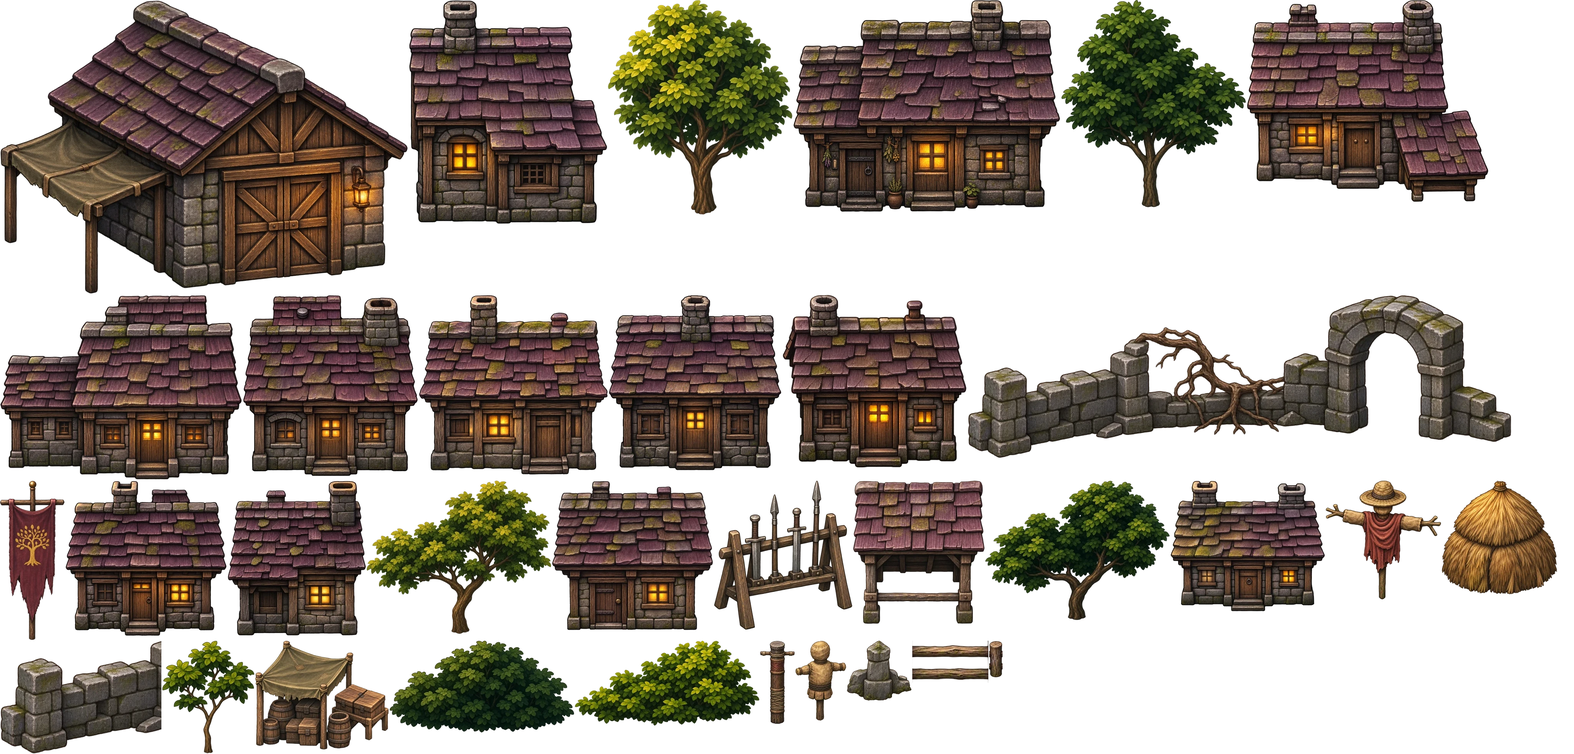
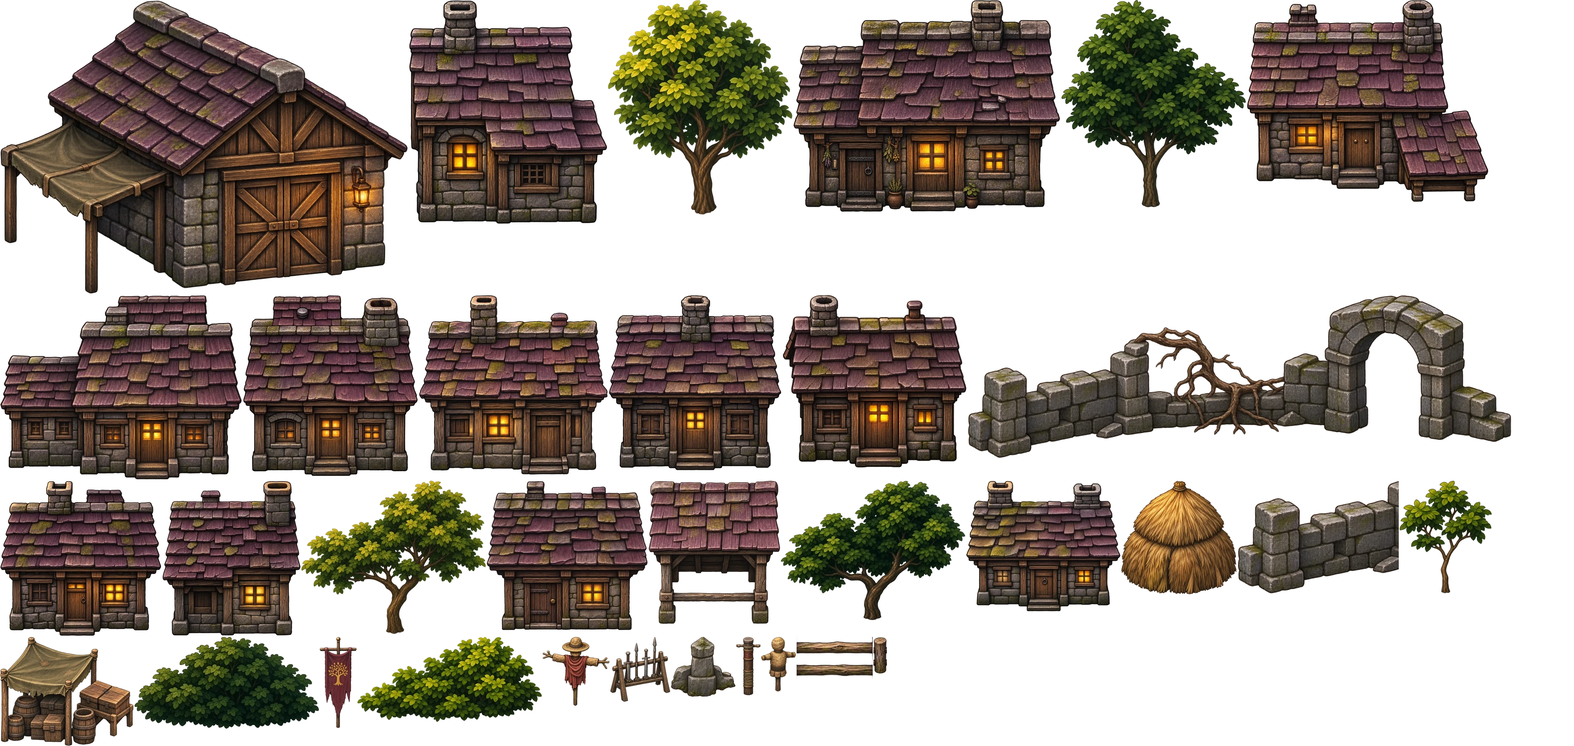
0.1.43: training ground pieces and scarecrow sized to the heroes
Claude-Session: https://claude.ai/code/session_01GdUtVyN9RJChkwtqMYVHJY

diff --git a/game.html b/game.html
@@ -588,7 +588,7 @@ setTimeout(stInit, 0);
 // ---- Report a bug / share an idea. Each report is posted to Mathis's Google Form (its answers fill a Google Sheet that Claude reads).
 // REPORT.form: the form's /formResponse address; REPORT.f: the entry ids of its questions. Empty = not wired yet: reports wait on the device.
 const REPORT = {form:'https://docs.google.com/forms/d/e/1FAIpQLScxkx9EH5JrIl3sv-kmJCeBhfmK7VFl6_9q2C7KEp91dp3fpg/formResponse', f:{kind:'entry.1266972860', text:'entry.559001655', contact:'entry.927686679', info:'entry.1743785591'}};
-const GAME_VER = '0.1.42';
+const GAME_VER = '0.1.43';
 const ERRLOG = [];
 window.addEventListener('error', e => { ERRLOG.push(String(e.message || e).slice(0, 160) + (e.filename ? ' @' + e.filename.split('/').pop() + ':' + e.lineno : '')); if(ERRLOG.length > 5) ERRLOG.shift(); });
 
@@ -1999,7 +1999,7 @@ function bodyTY(M, px, py){ const ty = Math.floor(py/TS); return py - ty*TS < LI
 // whether it fades when walked behind), ground (192 px chunks cut from 384 px picture tiles),
 // lamps, puddles, the anvil, the dome and where everyone stands.
 // Vaidya's house is the one north-west of the crossroads, Karmara's north-east (her anvil out front, no stall), Ganesh's inside the south-west loop.
-const TOWN2 = {"w":96,"h":64,"tiles":["xxxxxxxxxxxxxxxxxxxxxxxxxxxxxxxxxxxxxxxxxxxxxxxxxxxxxxxxxxxxxxxxxxxxxxxxxxxxxxxxxxxxxxxxxxxxxxxx","xxxxxxxxxxxxxxxxxxxxxxxxxxxxxxxxxxxxxxxxxxxxxxxxxxxxxxxxxxxxxxxxxxxxxxxxxxxxxxxxxxxxxxxxxxxxxxxx","xxxxxxxxxxxxxxxxxxxxxxxxxxxxxxxxxxxxxxxxxxxxxxxxxxxxxxxxxxxxxxxxxxxxxxxxxxxxxxxxxxxxxxxxxxxxxxxx","xxxxxxxxxxxxxxxxxxxxxxxwwwwwwxxxxxxxxggggggggggggggggggggggggggggggggggggggggggggggggggggggxxxxx","xxxxxxxxxxxxxxxxxxxxxxxwwwwwwxxxxxxxgggggggggggggggggggggggggggggggggggggggggggggggggggggggxxxxx","xxxxxxxxxxxxxxxxxxxxxxxwwwwwwxxxxxxggggggggggggggggggggggggggggggggggggggggggggggggggggggggxxxxx","xxxxxxxxxxxxxxxxxxxxxxxwwwwwxxxxxxgggggggggggggggggggggggggggggggggggggggggggggggggggggggggxxxxx","xxxxxxxxxxxxxxxxxxxxxxxwwwwwxxxxxggggggggggggggggggggggggggggggggggggggggggggggggggggggggggxxxxx","xxxxxxxxxxxxxxxxxxxxxxxwwwwwxxxxgggggggggggggggggggggggggggggggggggggggggggggggggggggggggggxxxxx","xxxxxxxxxxxxxxxxxxxxxxxwwwwwxxxggggggggggggggggggggggggggggggggggggggggggggggggggggggggggggxxxxx","xxxxxxxxxxxxxxxxxxxxxxxwwwwwxxxggggggggggggggggggggggggggggggggggggggggggggggggggggggggggggxxxxx","xxxxxxxxxxxxxxxxxxxxxxxwwwwwxxgggggggggggggggggggggggggggggggggggggggggggggggggggggggggggggxxxxx","xxxxxxxxxxxxxxxxxxxxxxxwwwwwwggggggggggggggggggggggggggggggggggggggggggggggggggggggggggggggxxxxx","xxxxxxxxxxxxxxxxxxxxxxxwwwwxwgwggggggggggggggggggggggggggggggggggggggggggggggggggggggggggggxxxxx","xxxxxxxxxxxxxxxxxxxxxxxwwwwwggwggggggggggggggggggggggggggggggggggggggggggggggggggggggggggggxxxxx","xxxxxxxxxxxxxxxxxxxxxxxwwwwwggwggggggggggggggggggggggggggggggggggggggggggggggggggggggggggggxxxxx","xxxxxxxxxxxxxxxxxxxxxwwwwwwgwwgggggggggggggggggggggggggggggggggggggggggggggggggggggggggggggxxxxx","xxxxxxxxxxxxxxxxxxxxxxwwwwwgwwgggggggggggggggggggggggggggggggggggggggggggggggggggggggggggggxxxxx","xxxxxxxxxxxxxxxxxxxxxwwwwwwgwwwggggggggggggggggggggggggggggggggggggggggggggggggggggggggggggxxxxx","xxxxxxxxxxxxxxxxxxxxxxwwwwgwwwgggggggggggggggggggggggggggggggggggggggggggggggggggggggggggggxxxxx","xxxxxxxxxxxxxxxxxxxxwwwwwwgwgggggggggggggggggggggggggggggggggggggggggggggggggggggggggggggggxxxxx","xxxxxxxxxxxxxxxxxxxxwwwwwwgwwggggggggggggggggggggggggggggggggggggggggggggggggggggggggggggggxxxxx","xxxxxxxxxxxxxxxxxxxwwwwwwwwwgggggggggggggggggggggggggggggggggggggggggggggggggggggggggggggggxxxxx","xxxxxxxxxxxxxxxxxxxwwwwwwgwwgggggggggggggggggggggggggggggggggggggggggggggggggggggggggggggggxxxxx","xxxxxxxxxxxxxxxxxxxwwwwwwgwwgggggggggggggggggggggggggggggggggggggggggggggggggggggggggggggggxxxxx","xxxxxxxxxxxxxxxxxxxxwwwwwgwggggggggggggggggggggggggggggggggggggggggggggggggggggggggggggggggxxxxx","xxxxxxxxxxxxxxxxxxxxwwwwwgwggggggggggggggggggggggggggggggggggggggggggggggggggggggggggggggggxxxxx","xxxxxxxxxxxxxxxxxxxxxxxxxbbbbbbbgggggggggggggggggggggggggggggggggggggggggggggggggggggggggggxxxxx","xxxxxxxxxxxxxxxxxxxxxxxxxbbbbbbbgggggggggggggggggggggggggggggggggggggggggggggggggggggggggggxxxxx","xxxxxxxxxxxxxxxxxxxxxxxxxbbbbbbbgggggggggggggggggggggggggggggggggggggggggggggggggggggggggggxxxxx","xxxxxxxxxxxxxxxxxxxxxxxxxbbbbbbbgggggggggggggggggggggggggggggggggggggggggggggggggggggggggggxxxxx","xxxxxxxxxxxxxxxxxxxxxxxxwwwwgggggggggggggggggggggggggggggggggggggggggggggggggggggggggggggggxxxxx","xxxxxxxxxxxxxxxxxxxxwxwxwwwwgggggggggggggggggggggggggggggggggggggggggggggggggggggggggggggggxxxxx","xxxxxxxxxxxxxxxxxxxwwwwwwgwwgggggggggggggggggggggggggggggggggggggggggggggggggggggggggggggggxxxxx","xxxxxxxxxxxxxxxxxxxwwwwwwgwwwggggggggggggggggggggggggggggggggggggggggggggggggggggggggggggggxxxxx","xxxxxxxxxxxxxxxxxxxwxwwwwgwwwggggggggggggggggggggggggggggggggggggggggggggggggggggggggggggggxxxxx","xxxxxxxxxxxxxxxxxxxwwwwwwwwwwggggggggggggggggggggggggggggggggggggggggggggggggggggggggggggggxxxxx","xxxxxxxxxxxxxxxxxxxxwwwwwwgwwggggggggggggggggggggggggggggggggggggggggggggggggggggggggggggggxxxxx","xxxxxxxxxxxxxxxxxxxxwwwwwwgwwwgggggggggggggggggggggggggggggggggggggggggggggggggggggggggggggxxxxx","xxxxxxxxxxxxxxxxxxxxwwwwwwgwwwgggggggggggggggggggggggggggggggggggggggggggggggggggggggggggggxxxxx","xxxxxxxxxxxxxxxxxxxxxwwwwwwwwwwggggggggggggggggggggggggggggggggggggggggggggggggggggggggggggxxxxx","xxxxxxxxxxxxxxxxxxxxxwwwwwwgwwgggggggggggggggggggggggggggggggggggggggggggggggggggggggggggggxxxxx","xxxxxxxxxxxxxxxxxxxxxxwwwwwgwgwggggggggggggggggggggggggggggggggggggggggggggggggggggggggggggxxxxx","xxxxxxxxxxxxxxxxxxxxxxwwwwwwgwwggggggggggggggggggggggggggggggggggggggggggggggggggggggggggggxxxxx","xxxxxxxxxxxxxxxxxxxxxxwwwwwwgwwggggggggggggggggggggggggggggggggggggggggggggggggggggggggggggxxxxx","xxxxxxxxxxxxxxxxxxxxxxwwwwwwwgwggggggggggggggggggggggggggggggggggggggggggggggggggggggggggggxxxxx","xxxxxxxxxxxxxxxxxxxxxxwxwwwwwgwggggggggggggggggggggggggggggggggggggggggggggggggggggggggggggxxxxx","xxxxxxxxxxxxxxxxxxxxxxwxwwwwxggggggggggggggggggggggggggggggggggggggggggggggggggggggggggggggxxxxx","xxxxxxxxxxxxxxxxxxxxxxxwwwwwxxgggggggggggggggggggggggggggggggggggggggggggggggggggggggggggggxxxxx","xxxxxxxxxxxxxxxxxxxxxxxwwwwwxxxggggggggggggggggggggggggggggggggggggggggggggggggggggggggggggxxxxx","xxxxxxxxxxxxxxxxxxxxxxwwwwwwxxxggggggggggggggggggggggggggggggggggggggggggggggggggggggggggggxxxxx","xxxxxxxxxxxxxxxxxxxxxxwwwwwxxxxxgggggggggggggggggggggggggggggggggggggggggggggggggggggggggggxxxxx","xxxxxxxxxxxxxxxxxxxxxxwwwwwxxxxxxggggggggggggggggggggggggggggggggggggggggggggggggggggggggggxxxxx","xxxxxxxxxxxxxxxxxxxxxxwwwwwwxxxxxxgggggggggggggggggggggggggggggggggggggggggggggggggggggggggxxxxx","xxxxxxxxxxxxxxxxxxxxxxwwwwwwxxxxxxxggggggggggggggggggggggggggggggggggggggggggggggggggggggggxxxxx","xxxxxxxxxxxxxxxxxxxxxwwwwwxxxxxxxxxxgggggggggggggggggggggggggggggggggggggggggggggggggggggggxxxxx","xxxxxxxxxxxxxxxxxxxxxwwwwwxxxxxxxxxxxggggggggggggggggggggggggggggggggggggggggggggggggggggggxxxxx","xxxxxxxxxxxxxxxxxxxxxxxxxxxxxxxxxxxxxxxxxxxxxxxxxxxxxxxxxxxxxxxxxxxxxxxxxxxxxxxxxxxxxxxxxxxxxxxx","xxxxxxxxxxxxxxxxxxxxxxxxxxxxxxxxxxxxxxxxxxxxxxxxxxxxxxxxxxxxxxxxxxxxxxxxxxxxxxxxxxxxxxxxxxxxxxxx","xxxxxxxxxxxxxxxxxxxxxxxxxxxxxxxxxxxxxxxxxxxxxxxxxxxxxxxxxxxxxxxxxxxxxxxxxxxxxxxxxxxxxxxxxxxxxxxx","xxxxxxxxxxxxxxxxxxxxxxxxxxxxxxxxxxxxxxxxxxxxxxxxxxxxxxxxxxxxxxxxxxxxxxxxxxxxxxxxxxxxxxxxxxxxxxxx","xxxxxxxxxxxxxxxxxxxxxxxxxxxxxxxxxxxxxxxxxxxxxxxxxxxxxxxxxxxxxxxxxxxxxxxxxxxxxxxxxxxxxxxxxxxxxxxx","xxxxxxxxxxxxxxxxxxxxxxxxxxxxxxxxxxxxxxxxxxxxxxxxxxxxxxxxxxxxxxxxxxxxxxxxxxxxxxxxxxxxxxxxxxxxxxxx","xxxxxxxxxxxxxxxxxxxxxxxxxxxxxxxxxxxxxxxxxxxxxxxxxxxxxxxxxxxxxxxxxxxxxxxxxxxxxxxxxxxxxxxxxxxxxxxx"],"solids":[[1146.0,826.0,21.0,6.0],[742.0,808.0,3.0,2.0],[1212.0,179.0,4.0,2.5],[1256.0,176.0,4.0,2.5],[1297.0,172.0,4.0,2.5],[1095.0,226.0,4.0,2.5],[1152.0,162.0,2.5,1.5],[1426.0,211.0,2.5,1.5],[912.0,533.0,10.0,4.0],[1172.0,557.0,8.0,3.5],[958.0,750.5,4.5,2.6],[951.2,748.7,4.5,2.6],[944.5,746.8,4.5,2.6],[937.7,745.0,4.5,2.6],[931.0,743.1,4.5,2.6],[925.0,741.5,4.5,2.6],[918.4,739.2,4.5,2.6],[911.8,736.9,4.5,2.6],[905.2,734.6,4.5,2.6],[898.6,732.3,4.5,2.6],[892.0,729.9,4.5,2.6],[885.4,727.6,4.5,2.6],[885.0,727.5,4.5,2.6],[878.0,726.7,4.5,2.6],[871.1,726.0,4.5,2.6],[864.1,725.2,4.5,2.6],[862.5,725.0,4.5,2.6],[855.5,724.2,4.5,2.6],[848.6,723.5,4.5,2.6],[841.6,722.7,4.5,2.6],[840.0,722.5,4.5,2.6],[833.1,721.5,4.5,2.6],[826.2,720.4,4.5,2.6],[819.2,719.4,4.5,2.6],[812.3,718.3,4.5,2.6],[805.4,717.3,4.5,2.6],[800.0,716.5,4.5,2.6],[793.1,715.5,4.5,2.6],[786.2,714.4,4.5,2.6],[779.2,713.4,4.5,2.6],[772.3,712.3,4.5,2.6],[765.4,711.3,4.5,2.6],[760.0,710.5,4.5,2.6],[753.0,709.9,4.5,2.6],[746.1,709.2,4.5,2.6],[739.1,708.6,4.5,2.6],[732.1,707.9,4.5,2.6],[725.2,707.3,4.5,2.6],[718.2,706.6,4.5,2.6],[717.0,706.5,4.5,2.6],[710.0,706.0,4.5,2.6],[703.0,705.4,4.5,2.6],[696.1,704.9,4.5,2.6],[691.0,704.5,4.5,2.6],[684.0,704.0,4.5,2.6],[677.0,703.4,4.5,2.6],[670.1,702.9,4.5,2.6],[665.0,702.5,4.5,2.6],[658.0,703.1,4.5,2.6],[651.1,703.8,4.5,2.6],[644.1,704.4,4.5,2.6],[637.1,705.1,4.5,2.6],[630.2,705.7,4.5,2.6],[623.2,706.4,4.5,2.6],[622.0,706.5,4.5,2.6],[615.8,709.8,4.5,2.6],[609.6,713.0,4.5,2.6],[603.4,716.3,4.5,2.6],[597.2,719.6,4.5,2.6],[591.0,722.8,4.5,2.6],[586.0,725.5,4.5,2.6],[583.9,732.2,4.5,2.6],[581.8,738.8,4.5,2.6],[579.7,745.5,4.5,2.6],[577.5,752.2,4.5,2.6],[575.4,758.9,4.5,2.6],[573.3,765.5,4.5,2.6],[573.0,766.5,4.5,2.6],[574.3,773.4,4.5,2.6],[575.5,780.3,4.5,2.6],[576.8,787.2,4.5,2.6],[578.0,794.0,4.5,2.6],[579.0,799.5,4.5,2.6],[584.1,804.3,4.5,2.6],[589.3,809.0,4.5,2.6],[594.4,813.8,4.5,2.6],[599.5,818.5,4.5,2.6],[604.7,823.3,4.5,2.6],[606.0,824.5,4.5,2.6],[612.0,828.1,4.5,2.6],[618.1,831.6,4.5,2.6],[624.1,835.2,4.5,2.6],[628.0,837.5,4.5,2.6],[634.0,841.1,4.5,2.6],[640.1,844.6,4.5,2.6],[646.1,848.2,4.5,2.6],[650.0,850.5,4.5,2.6],[656.6,852.8,4.5,2.6],[663.2,855.1,4.5,2.6],[669.8,857.4,4.5,2.6],[676.4,859.7,4.5,2.6],[683.0,862.1,4.5,2.6],[689.6,864.4,4.5,2.6],[690.0,864.5,4.5,2.6],[696.7,866.6,4.5,2.6],[703.4,868.7,4.5,2.6],[710.1,870.7,4.5,2.6],[712.5,871.5,4.5,2.6],[719.2,873.6,4.5,2.6],[725.9,875.7,4.5,2.6],[732.6,877.7,4.5,2.6],[735.0,878.5,4.5,2.6],[742.0,879.2,4.5,2.6],[748.9,879.9,4.5,2.6],[755.9,880.6,4.5,2.6],[762.9,881.3,4.5,2.6],[769.8,882.0,4.5,2.6],[775.0,882.5,4.5,2.6],[782.0,882.7,4.5,2.6],[789.0,882.8,4.5,2.6],[796.0,883.0,4.5,2.6],[797.5,883.0,4.5,2.6],[804.5,883.2,4.5,2.6],[811.5,883.3,4.5,2.6],[818.5,883.5,4.5,2.6],[820.0,883.5,4.5,2.6],[827.0,883.2,4.5,2.6],[834.0,882.9,4.5,2.6],[841.0,882.7,4.5,2.6],[845.0,882.5,4.5,2.6],[852.0,882.2,4.5,2.6],[859.0,881.9,4.5,2.6],[866.0,881.7,4.5,2.6],[870.0,881.5,4.5,2.6],[876.8,879.9,4.5,2.6],[883.6,878.2,4.5,2.6],[890.4,876.6,4.5,2.6],[895.0,875.5,4.5,2.6],[901.8,873.9,4.5,2.6],[908.6,872.2,4.5,2.6],[915.4,870.6,4.5,2.6],[920.0,869.5,4.5,2.6],[926.9,868.2,4.5,2.6],[933.8,866.9,4.5,2.6],[940.6,865.6,4.5,2.6],[947.5,864.3,4.5,2.6],[954.4,863.0,4.5,2.6],[961.3,861.6,4.5,2.6],[1000.0,859.5,4.5,2.6],[1006.9,858.5,4.5,2.6],[1013.9,857.6,4.5,2.6],[1020.8,856.6,4.5,2.6],[1025.0,856.0,4.5,2.6],[1031.9,855.0,4.5,2.6],[1038.9,854.1,4.5,2.6],[1045.8,853.1,4.5,2.6],[1050.0,852.5,4.5,2.6],[1056.9,851.5,4.5,2.6],[1063.9,850.6,4.5,2.6],[1070.8,849.6,4.5,2.6],[1075.0,849.0,4.5,2.6],[1081.9,848.0,4.5,2.6],[1088.9,847.1,4.5,2.6],[1095.8,846.1,4.5,2.6],[1100.0,845.5,4.5,2.6],[1106.9,844.3,4.5,2.6],[1113.8,843.0,4.5,2.6],[1120.7,841.8,4.5,2.6],[1125.0,841.0,4.5,2.6],[1131.9,839.8,4.5,2.6],[1138.8,838.5,4.5,2.6],[1145.7,837.3,4.5,2.6],[1150.0,836.5,4.5,2.6],[1156.8,834.8,4.5,2.6],[1163.6,833.1,4.5,2.6],[1170.4,831.4,4.5,2.6],[1177.2,829.7,4.5,2.6],[1182.0,828.5,4.5,2.6],[1182.4,821.5,4.5,2.6],[1182.7,814.5,4.5,2.6],[1183.1,807.5,4.5,2.6],[1183.5,800.5,4.5,2.6],[1183.8,793.5,4.5,2.6],[1352.0,170.5,4.5,2.6],[1359.0,169.8,4.5,2.6],[1365.9,169.2,4.5,2.6],[1372.9,168.5,4.5,2.6],[1379.9,167.8,4.5,2.6],[1386.8,167.2,4.5,2.6],[1393.8,166.5,4.5,2.6],[807.2,205.5,5.5,2.6],[628.2,193.5,5.5,2.6],[1387.8,535.5,5.5,2.6],[1280.2,571.5,5.5,2.6],[798.4,374.6,5.3,2.6],[1190.6,643.9,5.2,2.6],[1430.5,723.7,4.9,2.6],[490.9,372.3,4.9,2.6],[578.3,213.9,4.8,2.6],[891.6,616.3,4.8,2.6],[517.0,307.0,4.6,2.6],[544.0,724.0,4.6,2.6],[522.3,557.9,4.5,2.6],[1222.0,832.6,4.3,2.6],[1048.8,306.5,4.1,2.6],[781.9,121.2,4.1,2.6],[590.9,304.3,4.0,2.6],[758.4,207.5,3.9,2.6],[612.1,714.1,3.8,2.6],[1249.1,338.1,3.7,2.6],[1172.2,765.4,3.6,2.6],[485.7,595.6,3.5,2.6],[625.0,294.8,3.5,2.6],[1438.6,295.4,3.5,2.6],[1094.0,692.8,3.5,2.6],[830.0,307.4,3.5,2.6],[1284.7,613.4,3.5,2.6],[579.3,344.3,3.5,2.6],[871.3,274.1,3.5,2.6],[474.2,426.5,3.5,2.6],[551.6,264.9,3.5,2.6],[663.8,284.5,3.5,2.6],[776.7,564.1,3.5,2.6],[1229.8,643.5,3.5,2.6],[1451.0,669.4,3.5,2.6],[508.8,709.5,3.5,2.6],[1417.0,771.4,3.5,2.6],[1356.8,522.5,3.5,2.6],[527.0,365.8,3.5,2.6],[493.7,557.6,3.5,2.6],[611.0,227.1,3.5,2.6],[550.8,285.9,3.5,2.6],[1427.0,522.6,3.5,2.6],[765.7,615.7,3.5,2.6],[752.0,97.0,11.3,3.3],[656.9,372.9,10.9,3.2],[494.1,632.4,10.9,3.2],[1238.1,833.9,10.9,3.2],[1363.9,810.9,10.9,3.2],[1182.1,833.7,10.4,3.1],[1252.2,788.1,10.2,3.0],[1156.8,755.5,9.9,2.9],[1365.2,316.5,9.9,2.9],[1389.2,319.5,9.7,2.9],[1362.8,787.5,9.7,2.9],[903.8,364.5,9.7,2.9],[1241.2,531.9,9.7,2.9],[544.3,200.8,9.5,2.8],[944.2,306.3,9.2,2.7],[835.8,338.3,9.2,2.7],[878.2,343.3,9.2,2.7],[492.7,672.8,9.2,2.7],[1183.7,758.7,9.2,2.7],[1167.2,521.2,9.0,2.7],[924.7,348.1,8.5,2.5],[1074.7,286.0,8.3,2.5],[1199.7,725.0,8.3,2.5],[694.3,279.0,8.3,2.5],[713.3,135.9,8.1,2.5],[848.3,145.9,8.1,2.5],[1068.4,167.3,8.1,2.5],[878.3,511.9,8.1,2.5],[572.6,244.1,7.6,2.5],[1158.3,843.7,7.6,2.5]],"rects":[[775.8,403.2,104.4,34.8],[1043.8,348.5,68.4,29.5],[798.8,541.5,67.5,28.5],[923.0,188.1,54.0,24.9],[898.5,266.0,63.0,24.0],[861.4,307.3,60.3,20.7],[608.5,318.0,63.0,25.0],[504.1,408.7,73.8,29.3],[1164.0,401.9,72.0,28.1],[1360.3,389.1,77.4,36.9],[560.2,559.9,94.5,30.1],[1050.2,566.9,94.5,33.1],[973.9,769.0,159.3,44.0],[590.0,428.0,46.0,11.0],[630.0,618.0,46.0,20.0],[927.0,398.0,32.0,12.0],[1134.0,222.0,52.0,9.0],[1172.0,116.0,56.0,10.0],[1238.0,116.0,42.0,10.0],[1300.0,116.0,12.0,10.0],[1352.0,116.0,12.0,10.0],[1378.0,116.0,26.0,10.0],[646.0,222.0,64.0,9.0]],"houses":[{"x":48.125,"y":22.0,"w":7.25,"h":5.5,"name":"vaidya_house"},{"x":65.0,"y":18.625,"w":4.75,"h":5.125,"name":"karmara_house"},{"x":49.6875,"y":31.125,"w":4.6875,"h":4.625,"name":"ganesh_house"},{"x":57.5,"y":9.375,"w":3.75,"h":4.0625,"name":"house_a"},{"x":55.9375,"y":14.25,"w":4.375,"h":4.0,"name":"house_b"},{"x":53.625,"y":17.0,"w":4.1875,"h":3.625,"name":"house_c"},{"x":37.8125,"y":17.5,"w":4.375,"h":4.0625,"name":"house_d"},{"x":31.25,"y":22.625,"w":5.125,"h":4.875,"name":"house_e"},{"x":72.5,"y":22.0,"w":5.0,"h":5.0,"name":"house_f"},{"x":84.75,"y":20.5,"w":5.375,"h":6.25,"name":"house_g"},{"x":34.6875,"y":31.5625,"w":6.5625,"h":5.4375,"name":"house_h"},{"x":65.3125,"y":32.375,"w":6.5625,"h":5.25,"name":"house_i"}],"lamps":[[1030,215],[965,310],[680,365],[745,405],[520,458],[685,560],[1030,600],[1300,370],[1125,775]],"puddles":[[610,466,16,5],[730,470,11,4],[1082,466,14,5]],"anvil":[1132,428],"dome":[951,480,556],"rift":[995,92],"spots":{"start":[832,588],"entry":[990,500],"tp":[1030,520],"riftOut":[995,150],"stone":[948,548],"stash":[950,604],"karmara":[1140.8,422],"vaidya":[848,452],"ganesh":[806,590]},"place":[["vaidya_house",828.0,440,0,1],["karmara_house",1078.0,380,0,1],["ganesh_house",832.5,572,0,1],["house_a",950.0,215,0,1],["house_b",930.0,292,0,1],["house_c",891.5,330,0,1],["house_d",640.0,345,0,1],["house_e",541.0,440,0,1],["house_f",1200.0,432,0,1],["house_g",1399.0,428,0,1],["house_h",607.5,592,0,1],["house_i",1097.5,602,0,1],["barn",1053.5,815,0,1],["market_stall",612,441,0,1.0],["shed",653,640,0,1.0],["shed",943,412,1,0.667],["haystack",1146,833,0,1.0],["scarecrow",742,810,0,1.0],["training_dummy",1212,181,0,1.0],["training_dummy",1256,178,0,1.0],["training_dummy",1297,174,0,1.0],["weapon_rack",1160,233,0,1.0],["training_post",1095,228,0,1.0],["banner_pole",1152,163,0,1.0],["banner_pole",1426,212,1,1.0],["ruined_wall",1288,128,0,1],["ruin_small",678,233,0,1.0],["stone_statue",912,537,0,1.0],["stone_statue",1172,561,1,0.857],["frail",941.5,751.9,0,1,958,752,925.0,743.0],["frail",905.0,742.9,0,1,925.0,743.0,885.0,729.0],["frail",873.8,728.9,0,1,885.0,729.0,862.5,726.5],["frail",851.2,726.4,0,1,862.5,726.5,840.0,724.0],["frail",820.0,723.9,0,1,840.0,724.0,800.0,718.0],["frail",780.0,717.9,0,1,800.0,718.0,760.0,712.0],["frail",738.5,711.9,0,1,760.0,712.0,717.0,708.0],["frail",704.0,707.9,0,1,717.0,708.0,691.0,706.0],["frail",678.0,705.9,0,1,691.0,706.0,665.0,704.0],["frail",643.5,707.9,0,1,665.0,704.0,622.0,708.0],["frail",604.0,726.9,0,1,622.0,708.0,586.0,727.0],["frail",579.5,767.9,0,1,586.0,727.0,573.0,768.0],["frail",576.0,800.9,0,1,573.0,768.0,579.0,801.0],["frail",592.5,825.9,0,1,579.0,801.0,606.0,826.0],["frail",617.0,838.9,0,1,606.0,826.0,628.0,839.0],["frail",639.0,851.9,0,1,628.0,839.0,650.0,852.0],["frail",670.0,865.9,0,1,650.0,852.0,690.0,866.0],["frail",701.2,872.9,0,1,690.0,866.0,712.5,873.0],["frail",723.8,879.9,0,1,712.5,873.0,735.0,880.0],["frail",755.0,883.9,0,1,735.0,880.0,775.0,884.0],["frail",786.2,884.4,0,1,775.0,884.0,797.5,884.5],["frail",808.8,884.9,0,1,797.5,884.5,820.0,885.0],["frail",832.5,884.9,0,1,820.0,885.0,845.0,884.0],["frail",857.5,883.9,0,1,845.0,884.0,870.0,883.0],["frail",882.5,882.9,0,1,870.0,883.0,895.0,877.0],["frail",907.5,876.9,0,1,895.0,877.0,920.0,871.0],["frail",941.0,870.9,0,1,920.0,871.0,962.0,863.0],["fpost",958,752,0,1],["fpost",925.0,743.0,0,1],["fpost",885.0,729.0,0,1],["fpost",862.5,726.5,0,1],["fpost",840.0,724.0,0,1],["fpost",800.0,718.0,0,1],["fpost",760.0,712.0,0,1],["fpost",717.0,708.0,0,1],["fpost",691.0,706.0,0,1],["fpost",665.0,704.0,0,1],["fpost",622.0,708.0,0,1],["fpost",586.0,727.0,0,1],["fpost",573.0,768.0,0,1],["fpost",579.0,801.0,0,1],["fpost",606.0,826.0,0,1],["fpost",628.0,839.0,0,1],["fpost",650.0,852.0,0,1],["fpost",690.0,866.0,0,1],["fpost",712.5,873.0,0,1],["fpost",735.0,880.0,0,1],["fpost",775.0,884.0,0,1],["fpost",797.5,884.5,0,1],["fpost",820.0,885.0,0,1],["fpost",845.0,884.0,0,1],["fpost",870.0,883.0,0,1],["fpost",895.0,877.0,0,1],["fpost",920.0,871.0,0,1],["fpost",962.0,863.0,0,1],["frail",1012.5,860.9,0,1,1000,861,1025.0,857.5],["frail",1037.5,857.4,0,1,1025.0,857.5,1050.0,854.0],["frail",1062.5,853.9,0,1,1050.0,854.0,1075.0,850.5],["frail",1087.5,850.4,0,1,1075.0,850.5,1100.0,847.0],["frail",1112.5,846.9,0,1,1100.0,847.0,1125.0,842.5],["frail",1137.5,842.4,0,1,1125.0,842.5,1150.0,838.0],["frail",1166.0,837.9,0,1,1150.0,838.0,1182.0,830.0],["frail",1183.0,829.9,0,1,1182.0,830.0,1184.0,792.0],["fpost",1000,861,0,1],["fpost",1025.0,857.5,0,1],["fpost",1050.0,854.0,0,1],["fpost",1075.0,850.5,0,1],["fpost",1100.0,847.0,0,1],["fpost",1125.0,842.5,0,1],["fpost",1150.0,838.0,0,1],["fpost",1182.0,830.0,0,1],["fpost",1184.0,792.0,0,1],["frail",1373.0,171.9,0,1,1352,172,1394.0,168.0],["fpost",1352,172,0,1],["fpost",1394.0,168.0,0,1],["round_tree",807.2,207.0,1,0.975],["round_tree",628.2,195.0,1,0.975],["round_tree",1387.8,537.0,0,0.975],["round_tree",1280.2,573.0,1,0.975],["round_tree_3",798.4,376.1,1,0.942],["round_tree_4",1190.6,645.4,0,0.934],["round_tree_3",1430.5,725.2,0,0.876],["round_tree",490.9,373.8,0,0.869],["round_tree_2",578.3,215.4,1,0.853],["round_tree_3",891.6,617.8,1,0.853],["round_tree",517.0,308.5,1,0.812],["round_tree",544.0,725.5,1,0.812],["round_tree_3",522.3,559.4,0,0.796],["round_tree",1222.0,834.1,1,0.772],["round_tree_3",1048.8,308.0,1,0.738],["round_tree",781.9,122.7,1,0.731],["round_tree",590.9,305.8,1,0.715],["round_tree_4",758.4,209.0,0,0.698],["round_tree_3",612.1,715.6,0,0.682],["round_tree_3",1249.1,339.6,0,0.665],["round_tree",1172.2,766.9,0,0.649],["round_tree",485.7,597.1,1,0.601],["round_tree_3",625.0,296.3,1,0.592],["round_tree_4",1438.6,296.9,1,0.584],["round_tree_3",1094.0,694.3,0,0.576],["round_tree_3",830.0,308.9,1,0.569],["round_tree",1284.7,614.9,1,0.528],["round_tree",579.3,345.8,0,0.527],["round_tree_4",871.3,275.6,0,0.487],["round_tree_3",474.2,428.0,1,0.487],["round_tree",551.6,266.4,1,0.487],["round_tree_3",663.8,286.0,0,0.487],["round_tree_4",776.7,565.6,1,0.487],["round_tree_3",1229.8,645.0,0,0.487],["small_tree",1451.0,670.9,1,0.894],["round_tree_2",508.8,711.0,0,0.447],["small_tree",1417.0,772.9,1,0.894],["round_tree_2",1356.8,524.0,0,0.446],["small_tree",527.0,367.3,1,0.876],["round_tree_3",493.7,559.1,0,0.422],["small_tree",611.0,228.6,1,0.828],["round_tree_2",550.8,287.4,0,0.406],["small_tree",1427.0,524.1,1,0.812],["round_tree_3",765.7,617.2,0,0.406],["bush_2",752.0,101.0,1,0.416],["bush_2",656.9,376.7,1,0.399],["bush",494.1,636.2,1,0.399],["bush_2",1238.1,837.7,0,0.399],["bush_2",1363.9,814.7,1,0.399],["bush_2",1182.1,837.4,0,0.382],["bush",1252.2,791.7,1,0.373],["bush_2",1156.8,759.1,1,0.365],["bush_2",1365.2,320.1,0,0.365],["bush_2",1389.2,322.9,0,0.357],["bush_2",1362.8,790.9,1,0.357],["bush_2",903.8,367.9,1,0.357],["bush",1241.2,535.4,1,0.357],["bush",544.3,204.2,1,0.348],["bush_2",944.2,309.6,0,0.34],["bush_2",835.8,341.6,1,0.34],["bush_2",878.2,346.6,0,0.34],["bush",492.7,676.0,0,0.34],["bush",1183.7,762.0,0,0.34],["bush_2",1167.2,524.4,0,0.331],["bush_2",924.7,351.1,1,0.314],["bush_2",1074.7,288.9,1,0.306],["bush_2",1199.7,727.9,1,0.306],["bush_2",694.3,281.9,0,0.306],["bush_2",713.3,138.7,0,0.297],["bush_2",848.3,148.7,0,0.297],["bush",1068.4,170.1,1,0.297],["bush_2",878.3,514.7,0,0.297],["bush",572.6,246.8,0,0.28],["bush_2",1158.3,846.4,0,0.28],["lamp",1030,247.5,0,1],["lamp",965,342.5,0,1],["lamp",680,397.5,0,1],["lamp",745,437.5,0,1],["lamp",520,490.5,0,1],["lamp",685,592.5,0,1],["lamp",1030,632.5,0,1],["lamp",1300,402.5,0,1],["lamp",1125,807.5,0,1],["crate",655,432,0,1.1],["crate",670,429,0,1.0],["barrel",642,433,0,1.0],["barrel",1046,383,0,1.0],["crate",1072,410,0,1.1],["crate",1088,409,0,1.0],["barrel",1250,432,0,1.0],["crate",1262,434,0,1.0],["barrel",1384,431,0,1.0],["crate",1420,432,0,1.1],["barrel",1434,430,0,0.95],["barrel",898,434,0,1.0],["crate",913,438,0,1.0],["rubble",787,624,0,0.95],["sack1",572,596,0,1.0]],"spr":{"vaidya_house":[2064,0,696,552,348.0,551,1],"karmara_house":[632,768,456,473,228.0,472,1],"ganesh_house":[1584,768,450,458,225.0,457,1],"house_a":[592,1252,360,404,180.0,403,1],"house_b":[1436,1252,420,390,210.0,389,1],"house_c":[3046,1252,402,341,201.0,340,1],"house_d":[170,1252,420,405,210.0,404,1],"house_e":[1090,768,492,469,246.0,468,1],"house_f":[2036,768,480,451,240.0,450,1],"house_g":[1064,0,516,584,258.0,583,1],"house_h":[0,768,630,482,315.0,481,1],"house_i":[3244,0,630,527,315.0,526,1],"barn":[0,0,1062,766,531.0,765,1],"market_stall":[664,1669,348,284,174.0,283,1],"shed":[2220,1252,342,373,171.0,372,1],"haystack":[3752,1252,300,296,150.0,295,1],"scarecrow":[3450,1252,300,309,150.0,308,0],"training_dummy":[2070,1669,132,208,66.0,207,0],"weapon_rack":[1858,1252,360,389,180.0,388,0],"training_post":[1978,1669,90,217,45.0,216,0],"banner_pole":[0,1252,168,415,84.0,414,0],"ruined_wall":[2518,768,1416,426,708.0,425,1],"ruin_small":[0,1669,420,295,210.0,294,1],"stone_statue":[2204,1669,168,156,84.0,155,0],"fpost":[2574,1669,35,97,17.5,96,0],"frail":[2374,1669,198,110,99.0,109,0],"round_tree":[2762,0,480,540,232.5,539,1],"round_tree_2":[2564,1252,480,363,237.8,362,1],"round_tree_3":[1582,0,480,559,250.1,558,1],"round_tree_4":[954,1252,480,399,243.6,398,1],"small_tree":[422,1669,240,293,120.0,292,1],"bush":[1014,1669,480,239,252.9,238,0],"bush_2":[1496,1669,480,221,226.0,220,0]},"fence":{"k":0.0904,"top":12.84,"span":17.9},"ground":{"tile":192,"n":[8,6],"file":384,"fn":[4,3]}};
+const TOWN2 = {"w":96,"h":64,"tiles":["xxxxxxxxxxxxxxxxxxxxxxxxxxxxxxxxxxxxxxxxxxxxxxxxxxxxxxxxxxxxxxxxxxxxxxxxxxxxxxxxxxxxxxxxxxxxxxxx","xxxxxxxxxxxxxxxxxxxxxxxxxxxxxxxxxxxxxxxxxxxxxxxxxxxxxxxxxxxxxxxxxxxxxxxxxxxxxxxxxxxxxxxxxxxxxxxx","xxxxxxxxxxxxxxxxxxxxxxxxxxxxxxxxxxxxxxxxxxxxxxxxxxxxxxxxxxxxxxxxxxxxxxxxxxxxxxxxxxxxxxxxxxxxxxxx","xxxxxxxxxxxxxxxxxxxxxxxwwwwwwxxxxxxxxggggggggggggggggggggggggggggggggggggggggggggggggggggggxxxxx","xxxxxxxxxxxxxxxxxxxxxxxwwwwwwxxxxxxxgggggggggggggggggggggggggggggggggggggggggggggggggggggggxxxxx","xxxxxxxxxxxxxxxxxxxxxxxwwwwwwxxxxxxggggggggggggggggggggggggggggggggggggggggggggggggggggggggxxxxx","xxxxxxxxxxxxxxxxxxxxxxxwwwwwxxxxxxgggggggggggggggggggggggggggggggggggggggggggggggggggggggggxxxxx","xxxxxxxxxxxxxxxxxxxxxxxwwwwwxxxxxggggggggggggggggggggggggggggggggggggggggggggggggggggggggggxxxxx","xxxxxxxxxxxxxxxxxxxxxxxwwwwwxxxxgggggggggggggggggggggggggggggggggggggggggggggggggggggggggggxxxxx","xxxxxxxxxxxxxxxxxxxxxxxwwwwwxxxggggggggggggggggggggggggggggggggggggggggggggggggggggggggggggxxxxx","xxxxxxxxxxxxxxxxxxxxxxxwwwwwxxxggggggggggggggggggggggggggggggggggggggggggggggggggggggggggggxxxxx","xxxxxxxxxxxxxxxxxxxxxxxwwwwwxxgggggggggggggggggggggggggggggggggggggggggggggggggggggggggggggxxxxx","xxxxxxxxxxxxxxxxxxxxxxxwwwwwwggggggggggggggggggggggggggggggggggggggggggggggggggggggggggggggxxxxx","xxxxxxxxxxxxxxxxxxxxxxxwwwwxwgwggggggggggggggggggggggggggggggggggggggggggggggggggggggggggggxxxxx","xxxxxxxxxxxxxxxxxxxxxxxwwwwwggwggggggggggggggggggggggggggggggggggggggggggggggggggggggggggggxxxxx","xxxxxxxxxxxxxxxxxxxxxxxwwwwwggwggggggggggggggggggggggggggggggggggggggggggggggggggggggggggggxxxxx","xxxxxxxxxxxxxxxxxxxxxwwwwwwgwwgggggggggggggggggggggggggggggggggggggggggggggggggggggggggggggxxxxx","xxxxxxxxxxxxxxxxxxxxxxwwwwwgwwgggggggggggggggggggggggggggggggggggggggggggggggggggggggggggggxxxxx","xxxxxxxxxxxxxxxxxxxxxwwwwwwgwwwggggggggggggggggggggggggggggggggggggggggggggggggggggggggggggxxxxx","xxxxxxxxxxxxxxxxxxxxxxwwwwgwwwgggggggggggggggggggggggggggggggggggggggggggggggggggggggggggggxxxxx","xxxxxxxxxxxxxxxxxxxxwwwwwwgwgggggggggggggggggggggggggggggggggggggggggggggggggggggggggggggggxxxxx","xxxxxxxxxxxxxxxxxxxxwwwwwwgwwggggggggggggggggggggggggggggggggggggggggggggggggggggggggggggggxxxxx","xxxxxxxxxxxxxxxxxxxwwwwwwwwwgggggggggggggggggggggggggggggggggggggggggggggggggggggggggggggggxxxxx","xxxxxxxxxxxxxxxxxxxwwwwwwgwwgggggggggggggggggggggggggggggggggggggggggggggggggggggggggggggggxxxxx","xxxxxxxxxxxxxxxxxxxwwwwwwgwwgggggggggggggggggggggggggggggggggggggggggggggggggggggggggggggggxxxxx","xxxxxxxxxxxxxxxxxxxxwwwwwgwggggggggggggggggggggggggggggggggggggggggggggggggggggggggggggggggxxxxx","xxxxxxxxxxxxxxxxxxxxwwwwwgwggggggggggggggggggggggggggggggggggggggggggggggggggggggggggggggggxxxxx","xxxxxxxxxxxxxxxxxxxxxxxxxbbbbbbbgggggggggggggggggggggggggggggggggggggggggggggggggggggggggggxxxxx","xxxxxxxxxxxxxxxxxxxxxxxxxbbbbbbbgggggggggggggggggggggggggggggggggggggggggggggggggggggggggggxxxxx","xxxxxxxxxxxxxxxxxxxxxxxxxbbbbbbbgggggggggggggggggggggggggggggggggggggggggggggggggggggggggggxxxxx","xxxxxxxxxxxxxxxxxxxxxxxxxbbbbbbbgggggggggggggggggggggggggggggggggggggggggggggggggggggggggggxxxxx","xxxxxxxxxxxxxxxxxxxxxxxxwwwwgggggggggggggggggggggggggggggggggggggggggggggggggggggggggggggggxxxxx","xxxxxxxxxxxxxxxxxxxxwxwxwwwwgggggggggggggggggggggggggggggggggggggggggggggggggggggggggggggggxxxxx","xxxxxxxxxxxxxxxxxxxwwwwwwgwwgggggggggggggggggggggggggggggggggggggggggggggggggggggggggggggggxxxxx","xxxxxxxxxxxxxxxxxxxwwwwwwgwwwggggggggggggggggggggggggggggggggggggggggggggggggggggggggggggggxxxxx","xxxxxxxxxxxxxxxxxxxwxwwwwgwwwggggggggggggggggggggggggggggggggggggggggggggggggggggggggggggggxxxxx","xxxxxxxxxxxxxxxxxxxwwwwwwwwwwggggggggggggggggggggggggggggggggggggggggggggggggggggggggggggggxxxxx","xxxxxxxxxxxxxxxxxxxxwwwwwwgwwggggggggggggggggggggggggggggggggggggggggggggggggggggggggggggggxxxxx","xxxxxxxxxxxxxxxxxxxxwwwwwwgwwwgggggggggggggggggggggggggggggggggggggggggggggggggggggggggggggxxxxx","xxxxxxxxxxxxxxxxxxxxwwwwwwgwwwgggggggggggggggggggggggggggggggggggggggggggggggggggggggggggggxxxxx","xxxxxxxxxxxxxxxxxxxxxwwwwwwwwwwggggggggggggggggggggggggggggggggggggggggggggggggggggggggggggxxxxx","xxxxxxxxxxxxxxxxxxxxxwwwwwwgwwgggggggggggggggggggggggggggggggggggggggggggggggggggggggggggggxxxxx","xxxxxxxxxxxxxxxxxxxxxxwwwwwgwgwggggggggggggggggggggggggggggggggggggggggggggggggggggggggggggxxxxx","xxxxxxxxxxxxxxxxxxxxxxwwwwwwgwwggggggggggggggggggggggggggggggggggggggggggggggggggggggggggggxxxxx","xxxxxxxxxxxxxxxxxxxxxxwwwwwwgwwggggggggggggggggggggggggggggggggggggggggggggggggggggggggggggxxxxx","xxxxxxxxxxxxxxxxxxxxxxwwwwwwwgwggggggggggggggggggggggggggggggggggggggggggggggggggggggggggggxxxxx","xxxxxxxxxxxxxxxxxxxxxxwxwwwwwgwggggggggggggggggggggggggggggggggggggggggggggggggggggggggggggxxxxx","xxxxxxxxxxxxxxxxxxxxxxwxwwwwxggggggggggggggggggggggggggggggggggggggggggggggggggggggggggggggxxxxx","xxxxxxxxxxxxxxxxxxxxxxxwwwwwxxgggggggggggggggggggggggggggggggggggggggggggggggggggggggggggggxxxxx","xxxxxxxxxxxxxxxxxxxxxxxwwwwwxxxggggggggggggggggggggggggggggggggggggggggggggggggggggggggggggxxxxx","xxxxxxxxxxxxxxxxxxxxxxwwwwwwxxxggggggggggggggggggggggggggggggggggggggggggggggggggggggggggggxxxxx","xxxxxxxxxxxxxxxxxxxxxxwwwwwxxxxxgggggggggggggggggggggggggggggggggggggggggggggggggggggggggggxxxxx","xxxxxxxxxxxxxxxxxxxxxxwwwwwxxxxxxggggggggggggggggggggggggggggggggggggggggggggggggggggggggggxxxxx","xxxxxxxxxxxxxxxxxxxxxxwwwwwwxxxxxxgggggggggggggggggggggggggggggggggggggggggggggggggggggggggxxxxx","xxxxxxxxxxxxxxxxxxxxxxwwwwwwxxxxxxxggggggggggggggggggggggggggggggggggggggggggggggggggggggggxxxxx","xxxxxxxxxxxxxxxxxxxxxwwwwwxxxxxxxxxxgggggggggggggggggggggggggggggggggggggggggggggggggggggggxxxxx","xxxxxxxxxxxxxxxxxxxxxwwwwwxxxxxxxxxxxggggggggggggggggggggggggggggggggggggggggggggggggggggggxxxxx","xxxxxxxxxxxxxxxxxxxxxxxxxxxxxxxxxxxxxxxxxxxxxxxxxxxxxxxxxxxxxxxxxxxxxxxxxxxxxxxxxxxxxxxxxxxxxxxx","xxxxxxxxxxxxxxxxxxxxxxxxxxxxxxxxxxxxxxxxxxxxxxxxxxxxxxxxxxxxxxxxxxxxxxxxxxxxxxxxxxxxxxxxxxxxxxxx","xxxxxxxxxxxxxxxxxxxxxxxxxxxxxxxxxxxxxxxxxxxxxxxxxxxxxxxxxxxxxxxxxxxxxxxxxxxxxxxxxxxxxxxxxxxxxxxx","xxxxxxxxxxxxxxxxxxxxxxxxxxxxxxxxxxxxxxxxxxxxxxxxxxxxxxxxxxxxxxxxxxxxxxxxxxxxxxxxxxxxxxxxxxxxxxxx","xxxxxxxxxxxxxxxxxxxxxxxxxxxxxxxxxxxxxxxxxxxxxxxxxxxxxxxxxxxxxxxxxxxxxxxxxxxxxxxxxxxxxxxxxxxxxxxx","xxxxxxxxxxxxxxxxxxxxxxxxxxxxxxxxxxxxxxxxxxxxxxxxxxxxxxxxxxxxxxxxxxxxxxxxxxxxxxxxxxxxxxxxxxxxxxxx","xxxxxxxxxxxxxxxxxxxxxxxxxxxxxxxxxxxxxxxxxxxxxxxxxxxxxxxxxxxxxxxxxxxxxxxxxxxxxxxxxxxxxxxxxxxxxxxx"],"solids":[[1146.0,826.0,21.0,6.0],[742.0,808.0,2.5,1.8],[1212.0,179.0,3.0,2.0],[1256.0,176.0,3.0,2.0],[1297.0,172.0,3.0,2.0],[1095.0,226.0,3.0,2.0],[1152.0,162.0,2.0,1.2],[1426.0,211.0,2.0,1.2],[912.0,533.0,10.0,4.0],[1172.0,557.0,8.0,3.5],[958.0,750.5,4.5,2.6],[951.2,748.7,4.5,2.6],[944.5,746.8,4.5,2.6],[937.7,745.0,4.5,2.6],[931.0,743.1,4.5,2.6],[925.0,741.5,4.5,2.6],[918.4,739.2,4.5,2.6],[911.8,736.9,4.5,2.6],[905.2,734.6,4.5,2.6],[898.6,732.3,4.5,2.6],[892.0,729.9,4.5,2.6],[885.4,727.6,4.5,2.6],[885.0,727.5,4.5,2.6],[878.0,726.7,4.5,2.6],[871.1,726.0,4.5,2.6],[864.1,725.2,4.5,2.6],[862.5,725.0,4.5,2.6],[855.5,724.2,4.5,2.6],[848.6,723.5,4.5,2.6],[841.6,722.7,4.5,2.6],[840.0,722.5,4.5,2.6],[833.1,721.5,4.5,2.6],[826.2,720.4,4.5,2.6],[819.2,719.4,4.5,2.6],[812.3,718.3,4.5,2.6],[805.4,717.3,4.5,2.6],[800.0,716.5,4.5,2.6],[793.1,715.5,4.5,2.6],[786.2,714.4,4.5,2.6],[779.2,713.4,4.5,2.6],[772.3,712.3,4.5,2.6],[765.4,711.3,4.5,2.6],[760.0,710.5,4.5,2.6],[753.0,709.9,4.5,2.6],[746.1,709.2,4.5,2.6],[739.1,708.6,4.5,2.6],[732.1,707.9,4.5,2.6],[725.2,707.3,4.5,2.6],[718.2,706.6,4.5,2.6],[717.0,706.5,4.5,2.6],[710.0,706.0,4.5,2.6],[703.0,705.4,4.5,2.6],[696.1,704.9,4.5,2.6],[691.0,704.5,4.5,2.6],[684.0,704.0,4.5,2.6],[677.0,703.4,4.5,2.6],[670.1,702.9,4.5,2.6],[665.0,702.5,4.5,2.6],[658.0,703.1,4.5,2.6],[651.1,703.8,4.5,2.6],[644.1,704.4,4.5,2.6],[637.1,705.1,4.5,2.6],[630.2,705.7,4.5,2.6],[623.2,706.4,4.5,2.6],[622.0,706.5,4.5,2.6],[615.8,709.8,4.5,2.6],[609.6,713.0,4.5,2.6],[603.4,716.3,4.5,2.6],[597.2,719.6,4.5,2.6],[591.0,722.8,4.5,2.6],[586.0,725.5,4.5,2.6],[583.9,732.2,4.5,2.6],[581.8,738.8,4.5,2.6],[579.7,745.5,4.5,2.6],[577.5,752.2,4.5,2.6],[575.4,758.9,4.5,2.6],[573.3,765.5,4.5,2.6],[573.0,766.5,4.5,2.6],[574.3,773.4,4.5,2.6],[575.5,780.3,4.5,2.6],[576.8,787.2,4.5,2.6],[578.0,794.0,4.5,2.6],[579.0,799.5,4.5,2.6],[584.1,804.3,4.5,2.6],[589.3,809.0,4.5,2.6],[594.4,813.8,4.5,2.6],[599.5,818.5,4.5,2.6],[604.7,823.3,4.5,2.6],[606.0,824.5,4.5,2.6],[612.0,828.1,4.5,2.6],[618.1,831.6,4.5,2.6],[624.1,835.2,4.5,2.6],[628.0,837.5,4.5,2.6],[634.0,841.1,4.5,2.6],[640.1,844.6,4.5,2.6],[646.1,848.2,4.5,2.6],[650.0,850.5,4.5,2.6],[656.6,852.8,4.5,2.6],[663.2,855.1,4.5,2.6],[669.8,857.4,4.5,2.6],[676.4,859.7,4.5,2.6],[683.0,862.1,4.5,2.6],[689.6,864.4,4.5,2.6],[690.0,864.5,4.5,2.6],[696.7,866.6,4.5,2.6],[703.4,868.7,4.5,2.6],[710.1,870.7,4.5,2.6],[712.5,871.5,4.5,2.6],[719.2,873.6,4.5,2.6],[725.9,875.7,4.5,2.6],[732.6,877.7,4.5,2.6],[735.0,878.5,4.5,2.6],[742.0,879.2,4.5,2.6],[748.9,879.9,4.5,2.6],[755.9,880.6,4.5,2.6],[762.9,881.3,4.5,2.6],[769.8,882.0,4.5,2.6],[775.0,882.5,4.5,2.6],[782.0,882.7,4.5,2.6],[789.0,882.8,4.5,2.6],[796.0,883.0,4.5,2.6],[797.5,883.0,4.5,2.6],[804.5,883.2,4.5,2.6],[811.5,883.3,4.5,2.6],[818.5,883.5,4.5,2.6],[820.0,883.5,4.5,2.6],[827.0,883.2,4.5,2.6],[834.0,882.9,4.5,2.6],[841.0,882.7,4.5,2.6],[845.0,882.5,4.5,2.6],[852.0,882.2,4.5,2.6],[859.0,881.9,4.5,2.6],[866.0,881.7,4.5,2.6],[870.0,881.5,4.5,2.6],[876.8,879.9,4.5,2.6],[883.6,878.2,4.5,2.6],[890.4,876.6,4.5,2.6],[895.0,875.5,4.5,2.6],[901.8,873.9,4.5,2.6],[908.6,872.2,4.5,2.6],[915.4,870.6,4.5,2.6],[920.0,869.5,4.5,2.6],[926.9,868.2,4.5,2.6],[933.8,866.9,4.5,2.6],[940.6,865.6,4.5,2.6],[947.5,864.3,4.5,2.6],[954.4,863.0,4.5,2.6],[961.3,861.6,4.5,2.6],[1000.0,859.5,4.5,2.6],[1006.9,858.5,4.5,2.6],[1013.9,857.6,4.5,2.6],[1020.8,856.6,4.5,2.6],[1025.0,856.0,4.5,2.6],[1031.9,855.0,4.5,2.6],[1038.9,854.1,4.5,2.6],[1045.8,853.1,4.5,2.6],[1050.0,852.5,4.5,2.6],[1056.9,851.5,4.5,2.6],[1063.9,850.6,4.5,2.6],[1070.8,849.6,4.5,2.6],[1075.0,849.0,4.5,2.6],[1081.9,848.0,4.5,2.6],[1088.9,847.1,4.5,2.6],[1095.8,846.1,4.5,2.6],[1100.0,845.5,4.5,2.6],[1106.9,844.3,4.5,2.6],[1113.8,843.0,4.5,2.6],[1120.7,841.8,4.5,2.6],[1125.0,841.0,4.5,2.6],[1131.9,839.8,4.5,2.6],[1138.8,838.5,4.5,2.6],[1145.7,837.3,4.5,2.6],[1150.0,836.5,4.5,2.6],[1156.8,834.8,4.5,2.6],[1163.6,833.1,4.5,2.6],[1170.4,831.4,4.5,2.6],[1177.2,829.7,4.5,2.6],[1182.0,828.5,4.5,2.6],[1182.4,821.5,4.5,2.6],[1182.7,814.5,4.5,2.6],[1183.1,807.5,4.5,2.6],[1183.5,800.5,4.5,2.6],[1183.8,793.5,4.5,2.6],[1352.0,170.5,4.5,2.6],[1359.0,169.8,4.5,2.6],[1365.9,169.2,4.5,2.6],[1372.9,168.5,4.5,2.6],[1379.9,167.8,4.5,2.6],[1386.8,167.2,4.5,2.6],[1393.8,166.5,4.5,2.6],[807.2,205.5,5.5,2.6],[628.2,193.5,5.5,2.6],[1387.8,535.5,5.5,2.6],[1280.2,571.5,5.5,2.6],[798.4,374.6,5.3,2.6],[1190.6,643.9,5.2,2.6],[1430.5,723.7,4.9,2.6],[490.9,372.3,4.9,2.6],[578.3,213.9,4.8,2.6],[891.6,616.3,4.8,2.6],[517.0,307.0,4.6,2.6],[544.0,724.0,4.6,2.6],[522.3,557.9,4.5,2.6],[1222.0,832.6,4.3,2.6],[1048.8,306.5,4.1,2.6],[781.9,121.2,4.1,2.6],[590.9,304.3,4.0,2.6],[758.4,207.5,3.9,2.6],[612.1,714.1,3.8,2.6],[1249.1,338.1,3.7,2.6],[1172.2,765.4,3.6,2.6],[485.7,595.6,3.5,2.6],[625.0,294.8,3.5,2.6],[1438.6,295.4,3.5,2.6],[1094.0,692.8,3.5,2.6],[830.0,307.4,3.5,2.6],[1284.7,613.4,3.5,2.6],[579.3,344.3,3.5,2.6],[871.3,274.1,3.5,2.6],[474.2,426.5,3.5,2.6],[551.6,264.9,3.5,2.6],[663.8,284.5,3.5,2.6],[776.7,564.1,3.5,2.6],[1229.8,643.5,3.5,2.6],[1451.0,669.4,3.5,2.6],[508.8,709.5,3.5,2.6],[1417.0,771.4,3.5,2.6],[1356.8,522.5,3.5,2.6],[527.0,365.8,3.5,2.6],[493.7,557.6,3.5,2.6],[611.0,227.1,3.5,2.6],[550.8,285.9,3.5,2.6],[1427.0,522.6,3.5,2.6],[765.7,615.7,3.5,2.6],[752.0,97.0,11.3,3.3],[656.9,372.9,10.9,3.2],[494.1,632.4,10.9,3.2],[1238.1,833.9,10.9,3.2],[1363.9,810.9,10.9,3.2],[1182.1,833.7,10.4,3.1],[1252.2,788.1,10.2,3.0],[1156.8,755.5,9.9,2.9],[1365.2,316.5,9.9,2.9],[1389.2,319.5,9.7,2.9],[1362.8,787.5,9.7,2.9],[903.8,364.5,9.7,2.9],[1241.2,531.9,9.7,2.9],[544.3,200.8,9.5,2.8],[944.2,306.3,9.2,2.7],[835.8,338.3,9.2,2.7],[878.2,343.3,9.2,2.7],[492.7,672.8,9.2,2.7],[1183.7,758.7,9.2,2.7],[1167.2,521.2,9.0,2.7],[924.7,348.1,8.5,2.5],[1074.7,286.0,8.3,2.5],[1199.7,725.0,8.3,2.5],[694.3,279.0,8.3,2.5],[713.3,135.9,8.1,2.5],[848.3,145.9,8.1,2.5],[1068.4,167.3,8.1,2.5],[878.3,511.9,8.1,2.5],[572.6,244.1,7.6,2.5],[1158.3,843.7,7.6,2.5]],"rects":[[775.8,403.2,104.4,34.8],[1043.8,348.5,68.4,29.5],[798.8,541.5,67.5,28.5],[923.0,188.1,54.0,24.9],[898.5,266.0,63.0,24.0],[861.4,307.3,60.3,20.7],[608.5,318.0,63.0,25.0],[504.1,408.7,73.8,29.3],[1164.0,401.9,72.0,28.1],[1360.3,389.1,77.4,36.9],[560.2,559.9,94.5,30.1],[1050.2,566.9,94.5,33.1],[973.9,769.0,159.3,44.0],[590.0,428.0,46.0,11.0],[630.0,618.0,46.0,20.0],[927.0,398.0,32.0,12.0],[1148.0,228.0,24.0,4.0],[1172.0,116.0,56.0,10.0],[1238.0,116.0,42.0,10.0],[1300.0,116.0,12.0,10.0],[1352.0,116.0,12.0,10.0],[1378.0,116.0,26.0,10.0],[646.0,222.0,64.0,9.0]],"houses":[{"x":48.125,"y":22.0,"w":7.25,"h":5.5,"name":"vaidya_house"},{"x":65.0,"y":18.625,"w":4.75,"h":5.125,"name":"karmara_house"},{"x":49.6875,"y":31.125,"w":4.6875,"h":4.625,"name":"ganesh_house"},{"x":57.5,"y":9.375,"w":3.75,"h":4.0625,"name":"house_a"},{"x":55.9375,"y":14.25,"w":4.375,"h":4.0,"name":"house_b"},{"x":53.625,"y":17.0,"w":4.1875,"h":3.625,"name":"house_c"},{"x":37.8125,"y":17.5,"w":4.375,"h":4.0625,"name":"house_d"},{"x":31.25,"y":22.625,"w":5.125,"h":4.875,"name":"house_e"},{"x":72.5,"y":22.0,"w":5.0,"h":5.0,"name":"house_f"},{"x":84.75,"y":20.5,"w":5.375,"h":6.25,"name":"house_g"},{"x":34.6875,"y":31.5625,"w":6.5625,"h":5.4375,"name":"house_h"},{"x":65.3125,"y":32.375,"w":6.5625,"h":5.25,"name":"house_i"}],"lamps":[[1030,215],[965,310],[680,365],[745,405],[520,458],[685,560],[1030,600],[1300,370],[1125,775]],"puddles":[[610,466,16,5],[730,470,11,4],[1082,466,14,5]],"anvil":[1132,428],"dome":[951,480,556],"rift":[995,92],"spots":{"start":[832,588],"entry":[990,500],"tp":[1030,520],"riftOut":[995,150],"stone":[948,548],"stash":[950,604],"karmara":[1140.8,422],"vaidya":[848,452],"ganesh":[806,590]},"place":[["vaidya_house",828.0,440,0,1],["karmara_house",1078.0,380,0,1],["ganesh_house",832.5,572,0,1],["house_a",950.0,215,0,1],["house_b",930.0,292,0,1],["house_c",891.5,330,0,1],["house_d",640.0,345,0,1],["house_e",541.0,440,0,1],["house_f",1200.0,432,0,1],["house_g",1399.0,428,0,1],["house_h",607.5,592,0,1],["house_i",1097.5,602,0,1],["barn",1053.5,815,0,1],["market_stall",612,441,0,1.0],["shed",653,640,0,1.0],["shed",943,412,1,0.667],["haystack",1146,833,0,1.0],["scarecrow",742,810,0,1.0],["training_dummy",1212,181,0,1.0],["training_dummy",1256,178,0,1.0],["training_dummy",1297,174,0,1.0],["weapon_rack",1160,233,0,1.0],["training_post",1095,228,0,1.0],["banner_pole",1152,163,0,1.0],["banner_pole",1426,212,1,1.0],["ruined_wall",1288,128,0,1],["ruin_small",678,233,0,1.0],["stone_statue",912,537,0,1.0],["stone_statue",1172,561,1,0.857],["frail",941.5,751.9,0,1,958,752,925.0,743.0],["frail",905.0,742.9,0,1,925.0,743.0,885.0,729.0],["frail",873.8,728.9,0,1,885.0,729.0,862.5,726.5],["frail",851.2,726.4,0,1,862.5,726.5,840.0,724.0],["frail",820.0,723.9,0,1,840.0,724.0,800.0,718.0],["frail",780.0,717.9,0,1,800.0,718.0,760.0,712.0],["frail",738.5,711.9,0,1,760.0,712.0,717.0,708.0],["frail",704.0,707.9,0,1,717.0,708.0,691.0,706.0],["frail",678.0,705.9,0,1,691.0,706.0,665.0,704.0],["frail",643.5,707.9,0,1,665.0,704.0,622.0,708.0],["frail",604.0,726.9,0,1,622.0,708.0,586.0,727.0],["frail",579.5,767.9,0,1,586.0,727.0,573.0,768.0],["frail",576.0,800.9,0,1,573.0,768.0,579.0,801.0],["frail",592.5,825.9,0,1,579.0,801.0,606.0,826.0],["frail",617.0,838.9,0,1,606.0,826.0,628.0,839.0],["frail",639.0,851.9,0,1,628.0,839.0,650.0,852.0],["frail",670.0,865.9,0,1,650.0,852.0,690.0,866.0],["frail",701.2,872.9,0,1,690.0,866.0,712.5,873.0],["frail",723.8,879.9,0,1,712.5,873.0,735.0,880.0],["frail",755.0,883.9,0,1,735.0,880.0,775.0,884.0],["frail",786.2,884.4,0,1,775.0,884.0,797.5,884.5],["frail",808.8,884.9,0,1,797.5,884.5,820.0,885.0],["frail",832.5,884.9,0,1,820.0,885.0,845.0,884.0],["frail",857.5,883.9,0,1,845.0,884.0,870.0,883.0],["frail",882.5,882.9,0,1,870.0,883.0,895.0,877.0],["frail",907.5,876.9,0,1,895.0,877.0,920.0,871.0],["frail",941.0,870.9,0,1,920.0,871.0,962.0,863.0],["fpost",958,752,0,1],["fpost",925.0,743.0,0,1],["fpost",885.0,729.0,0,1],["fpost",862.5,726.5,0,1],["fpost",840.0,724.0,0,1],["fpost",800.0,718.0,0,1],["fpost",760.0,712.0,0,1],["fpost",717.0,708.0,0,1],["fpost",691.0,706.0,0,1],["fpost",665.0,704.0,0,1],["fpost",622.0,708.0,0,1],["fpost",586.0,727.0,0,1],["fpost",573.0,768.0,0,1],["fpost",579.0,801.0,0,1],["fpost",606.0,826.0,0,1],["fpost",628.0,839.0,0,1],["fpost",650.0,852.0,0,1],["fpost",690.0,866.0,0,1],["fpost",712.5,873.0,0,1],["fpost",735.0,880.0,0,1],["fpost",775.0,884.0,0,1],["fpost",797.5,884.5,0,1],["fpost",820.0,885.0,0,1],["fpost",845.0,884.0,0,1],["fpost",870.0,883.0,0,1],["fpost",895.0,877.0,0,1],["fpost",920.0,871.0,0,1],["fpost",962.0,863.0,0,1],["frail",1012.5,860.9,0,1,1000,861,1025.0,857.5],["frail",1037.5,857.4,0,1,1025.0,857.5,1050.0,854.0],["frail",1062.5,853.9,0,1,1050.0,854.0,1075.0,850.5],["frail",1087.5,850.4,0,1,1075.0,850.5,1100.0,847.0],["frail",1112.5,846.9,0,1,1100.0,847.0,1125.0,842.5],["frail",1137.5,842.4,0,1,1125.0,842.5,1150.0,838.0],["frail",1166.0,837.9,0,1,1150.0,838.0,1182.0,830.0],["frail",1183.0,829.9,0,1,1182.0,830.0,1184.0,792.0],["fpost",1000,861,0,1],["fpost",1025.0,857.5,0,1],["fpost",1050.0,854.0,0,1],["fpost",1075.0,850.5,0,1],["fpost",1100.0,847.0,0,1],["fpost",1125.0,842.5,0,1],["fpost",1150.0,838.0,0,1],["fpost",1182.0,830.0,0,1],["fpost",1184.0,792.0,0,1],["frail",1373.0,171.9,0,1,1352,172,1394.0,168.0],["fpost",1352,172,0,1],["fpost",1394.0,168.0,0,1],["round_tree",807.2,207.0,1,0.975],["round_tree",628.2,195.0,1,0.975],["round_tree",1387.8,537.0,0,0.975],["round_tree",1280.2,573.0,1,0.975],["round_tree_3",798.4,376.1,1,0.942],["round_tree_4",1190.6,645.4,0,0.934],["round_tree_3",1430.5,725.2,0,0.876],["round_tree",490.9,373.8,0,0.869],["round_tree_2",578.3,215.4,1,0.853],["round_tree_3",891.6,617.8,1,0.853],["round_tree",517.0,308.5,1,0.812],["round_tree",544.0,725.5,1,0.812],["round_tree_3",522.3,559.4,0,0.796],["round_tree",1222.0,834.1,1,0.772],["round_tree_3",1048.8,308.0,1,0.738],["round_tree",781.9,122.7,1,0.731],["round_tree",590.9,305.8,1,0.715],["round_tree_4",758.4,209.0,0,0.698],["round_tree_3",612.1,715.6,0,0.682],["round_tree_3",1249.1,339.6,0,0.665],["round_tree",1172.2,766.9,0,0.649],["round_tree",485.7,597.1,1,0.601],["round_tree_3",625.0,296.3,1,0.592],["round_tree_4",1438.6,296.9,1,0.584],["round_tree_3",1094.0,694.3,0,0.576],["round_tree_3",830.0,308.9,1,0.569],["round_tree",1284.7,614.9,1,0.528],["round_tree",579.3,345.8,0,0.527],["round_tree_4",871.3,275.6,0,0.487],["round_tree_3",474.2,428.0,1,0.487],["round_tree",551.6,266.4,1,0.487],["round_tree_3",663.8,286.0,0,0.487],["round_tree_4",776.7,565.6,1,0.487],["round_tree_3",1229.8,645.0,0,0.487],["small_tree",1451.0,670.9,1,0.894],["round_tree_2",508.8,711.0,0,0.447],["small_tree",1417.0,772.9,1,0.894],["round_tree_2",1356.8,524.0,0,0.446],["small_tree",527.0,367.3,1,0.876],["round_tree_3",493.7,559.1,0,0.422],["small_tree",611.0,228.6,1,0.828],["round_tree_2",550.8,287.4,0,0.406],["small_tree",1427.0,524.1,1,0.812],["round_tree_3",765.7,617.2,0,0.406],["bush_2",752.0,101.0,1,0.416],["bush_2",656.9,376.7,1,0.399],["bush",494.1,636.2,1,0.399],["bush_2",1238.1,837.7,0,0.399],["bush_2",1363.9,814.7,1,0.399],["bush_2",1182.1,837.4,0,0.382],["bush",1252.2,791.7,1,0.373],["bush_2",1156.8,759.1,1,0.365],["bush_2",1365.2,320.1,0,0.365],["bush_2",1389.2,322.9,0,0.357],["bush_2",1362.8,790.9,1,0.357],["bush_2",903.8,367.9,1,0.357],["bush",1241.2,535.4,1,0.357],["bush",544.3,204.2,1,0.348],["bush_2",944.2,309.6,0,0.34],["bush_2",835.8,341.6,1,0.34],["bush_2",878.2,346.6,0,0.34],["bush",492.7,676.0,0,0.34],["bush",1183.7,762.0,0,0.34],["bush_2",1167.2,524.4,0,0.331],["bush_2",924.7,351.1,1,0.314],["bush_2",1074.7,288.9,1,0.306],["bush_2",1199.7,727.9,1,0.306],["bush_2",694.3,281.9,0,0.306],["bush_2",713.3,138.7,0,0.297],["bush_2",848.3,148.7,0,0.297],["bush",1068.4,170.1,1,0.297],["bush_2",878.3,514.7,0,0.297],["bush",572.6,246.8,0,0.28],["bush_2",1158.3,846.4,0,0.28],["lamp",1030,247.5,0,1],["lamp",965,342.5,0,1],["lamp",680,397.5,0,1],["lamp",745,437.5,0,1],["lamp",520,490.5,0,1],["lamp",685,592.5,0,1],["lamp",1030,632.5,0,1],["lamp",1300,402.5,0,1],["lamp",1125,807.5,0,1],["crate",655,432,0,1.1],["crate",670,429,0,1.0],["barrel",642,433,0,1.0],["barrel",1046,383,0,1.0],["crate",1072,410,0,1.1],["crate",1088,409,0,1.0],["barrel",1250,432,0,1.0],["crate",1262,434,0,1.0],["barrel",1384,431,0,1.0],["crate",1420,432,0,1.1],["barrel",1434,430,0,0.95],["barrel",898,434,0,1.0],["crate",913,438,0,1.0],["rubble",787,624,0,0.95],["sack1",572,596,0,1.0]],"spr":{"vaidya_house":[2064,0,696,552,348.0,551,1],"karmara_house":[632,768,456,473,228.0,472,1],"ganesh_house":[1584,768,450,458,225.0,457,1],"house_a":[422,1252,360,404,180.0,403,1],"house_b":[1266,1252,420,390,210.0,389,1],"house_c":[2514,1252,402,341,201.0,340,1],"house_d":[0,1252,420,405,210.0,404,1],"house_e":[1090,768,492,469,246.0,468,1],"house_f":[2036,768,480,451,240.0,450,1],"house_g":[1064,0,516,584,258.0,583,1],"house_h":[0,768,630,482,315.0,481,1],"house_i":[3244,0,630,527,315.0,526,1],"barn":[0,0,1062,766,531.0,765,1],"market_stall":[0,1659,348,284,174.0,283,1],"shed":[1688,1252,342,373,171.0,372,1],"haystack":[2918,1252,300,296,150.0,295,1],"scarecrow":[1412,1659,174,179,87.0,178,0],"training_dummy":[1981,1659,90,142,45.0,141,0],"weapon_rack":[1588,1659,156,169,78.0,168,0],"training_post":[1916,1659,63,152,31.5,151,0],"banner_pole":[832,1659,96,237,48.0,236,0],"ruined_wall":[2518,768,1416,426,708.0,425,1],"ruin_small":[3220,1252,420,295,210.0,294,1],"stone_statue":[1746,1659,168,156,84.0,155,0],"fpost":[2273,1659,35,97,17.5,96,0],"frail":[2073,1659,198,110,99.0,109,0],"round_tree":[2762,0,480,540,232.5,539,1],"round_tree_2":[2032,1252,480,363,237.8,362,1],"round_tree_3":[1582,0,480,559,250.1,558,1],"round_tree_4":[784,1252,480,399,243.6,398,1],"small_tree":[3642,1252,240,293,120.0,292,1],"bush":[350,1659,480,239,252.9,238,0],"bush_2":[930,1659,480,221,226.0,220,0]},"fence":{"k":0.0904,"top":12.84,"span":17.9},"ground":{"tile":192,"n":[8,6],"file":384,"fn":[4,3]}};
 function genTown2(){
   const D = TOWN2, M = newMap(D.w, D.h, T_GRASS), S = D.spots;
   M.isTown = true; M.name = 'Palli'; M.theme = 'town'; M.v2 = true;

diff --git a/index.html b/index.html
@@ -104,6 +104,13 @@ footer{border-top:1px solid var(--line);text-align:center;color:var(--dim);font-
   <div class="notes">
 <!-- PATCHES: newest first. Plain language; say what changed and, when it came from feedback, that it did. -->
     <article class="patch">
+      <h3>Update 0.1.43</h3>
+      <p class="when">November 20, 2026</p>
+      <ul>
+        <li>From feedback: the training dummies, weapon rack, training post, banners and scarecrow were far too big next to your hero. They're now sized to match: the dummies stand about as tall as you.</li>
+      </ul>
+    </article>
+    <article class="patch">
       <h3>Update 0.1.42</h3>
       <p class="when">November 20, 2026</p>
       <ul>
